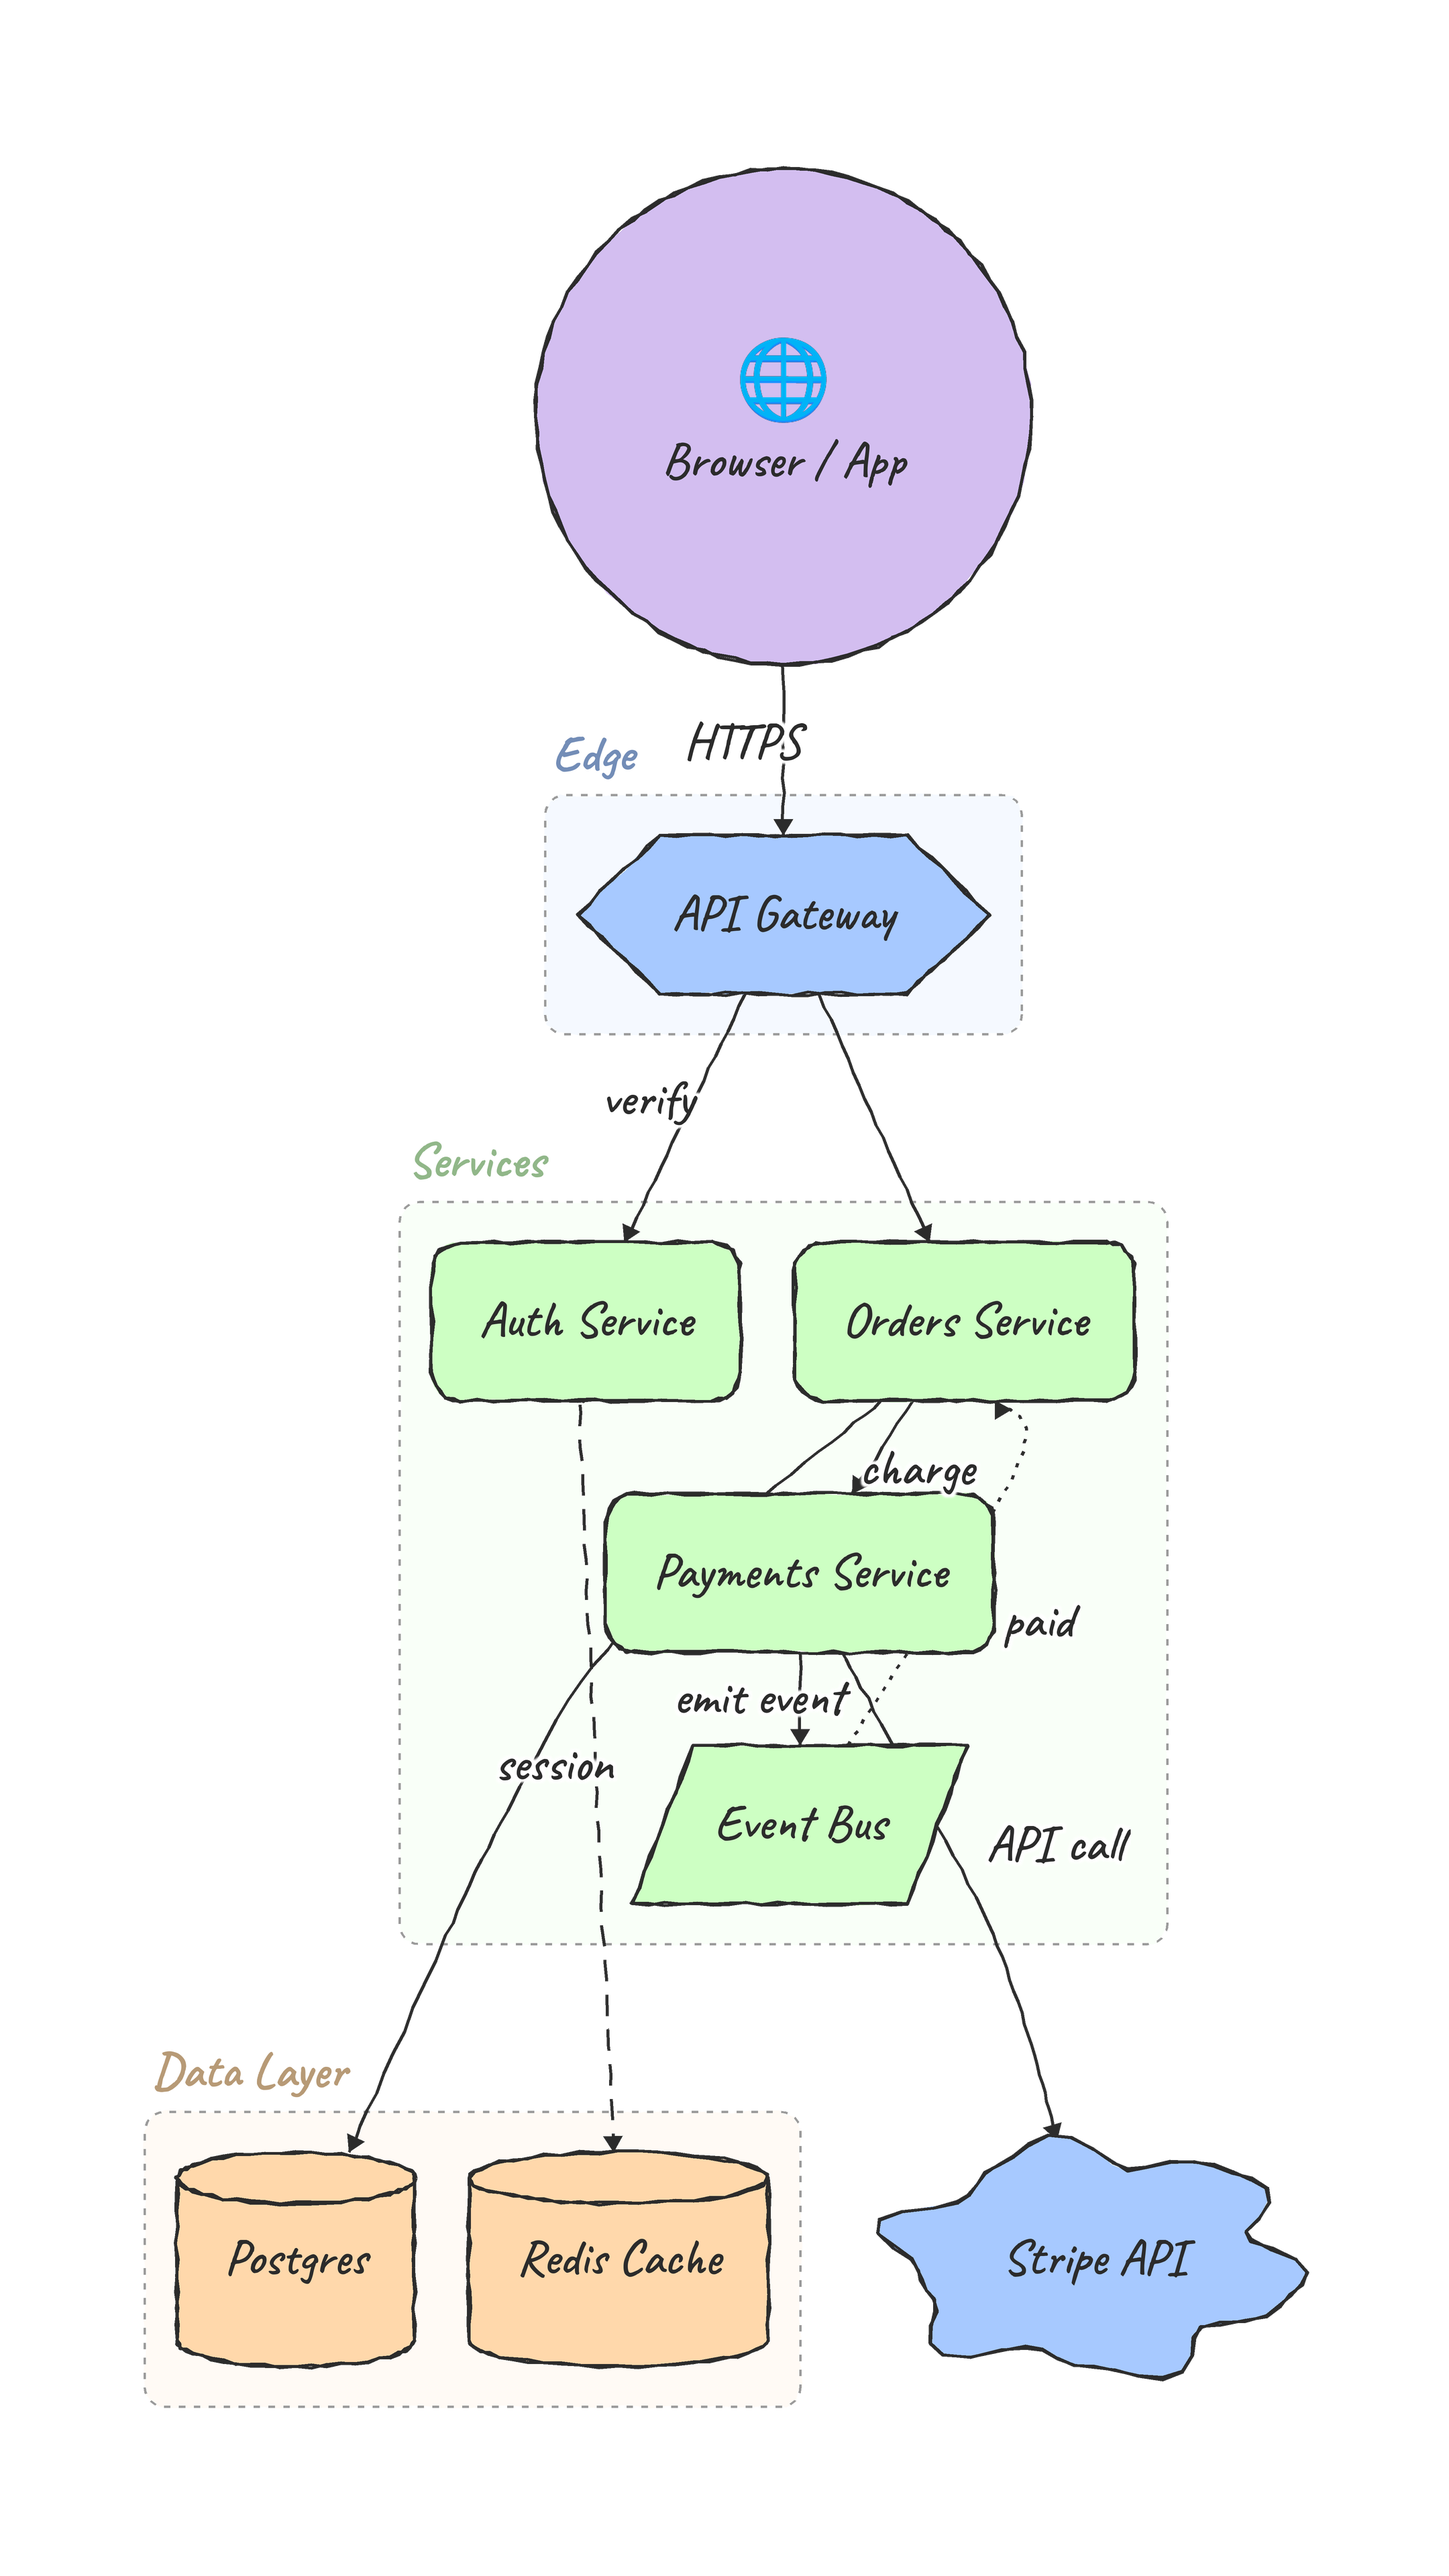
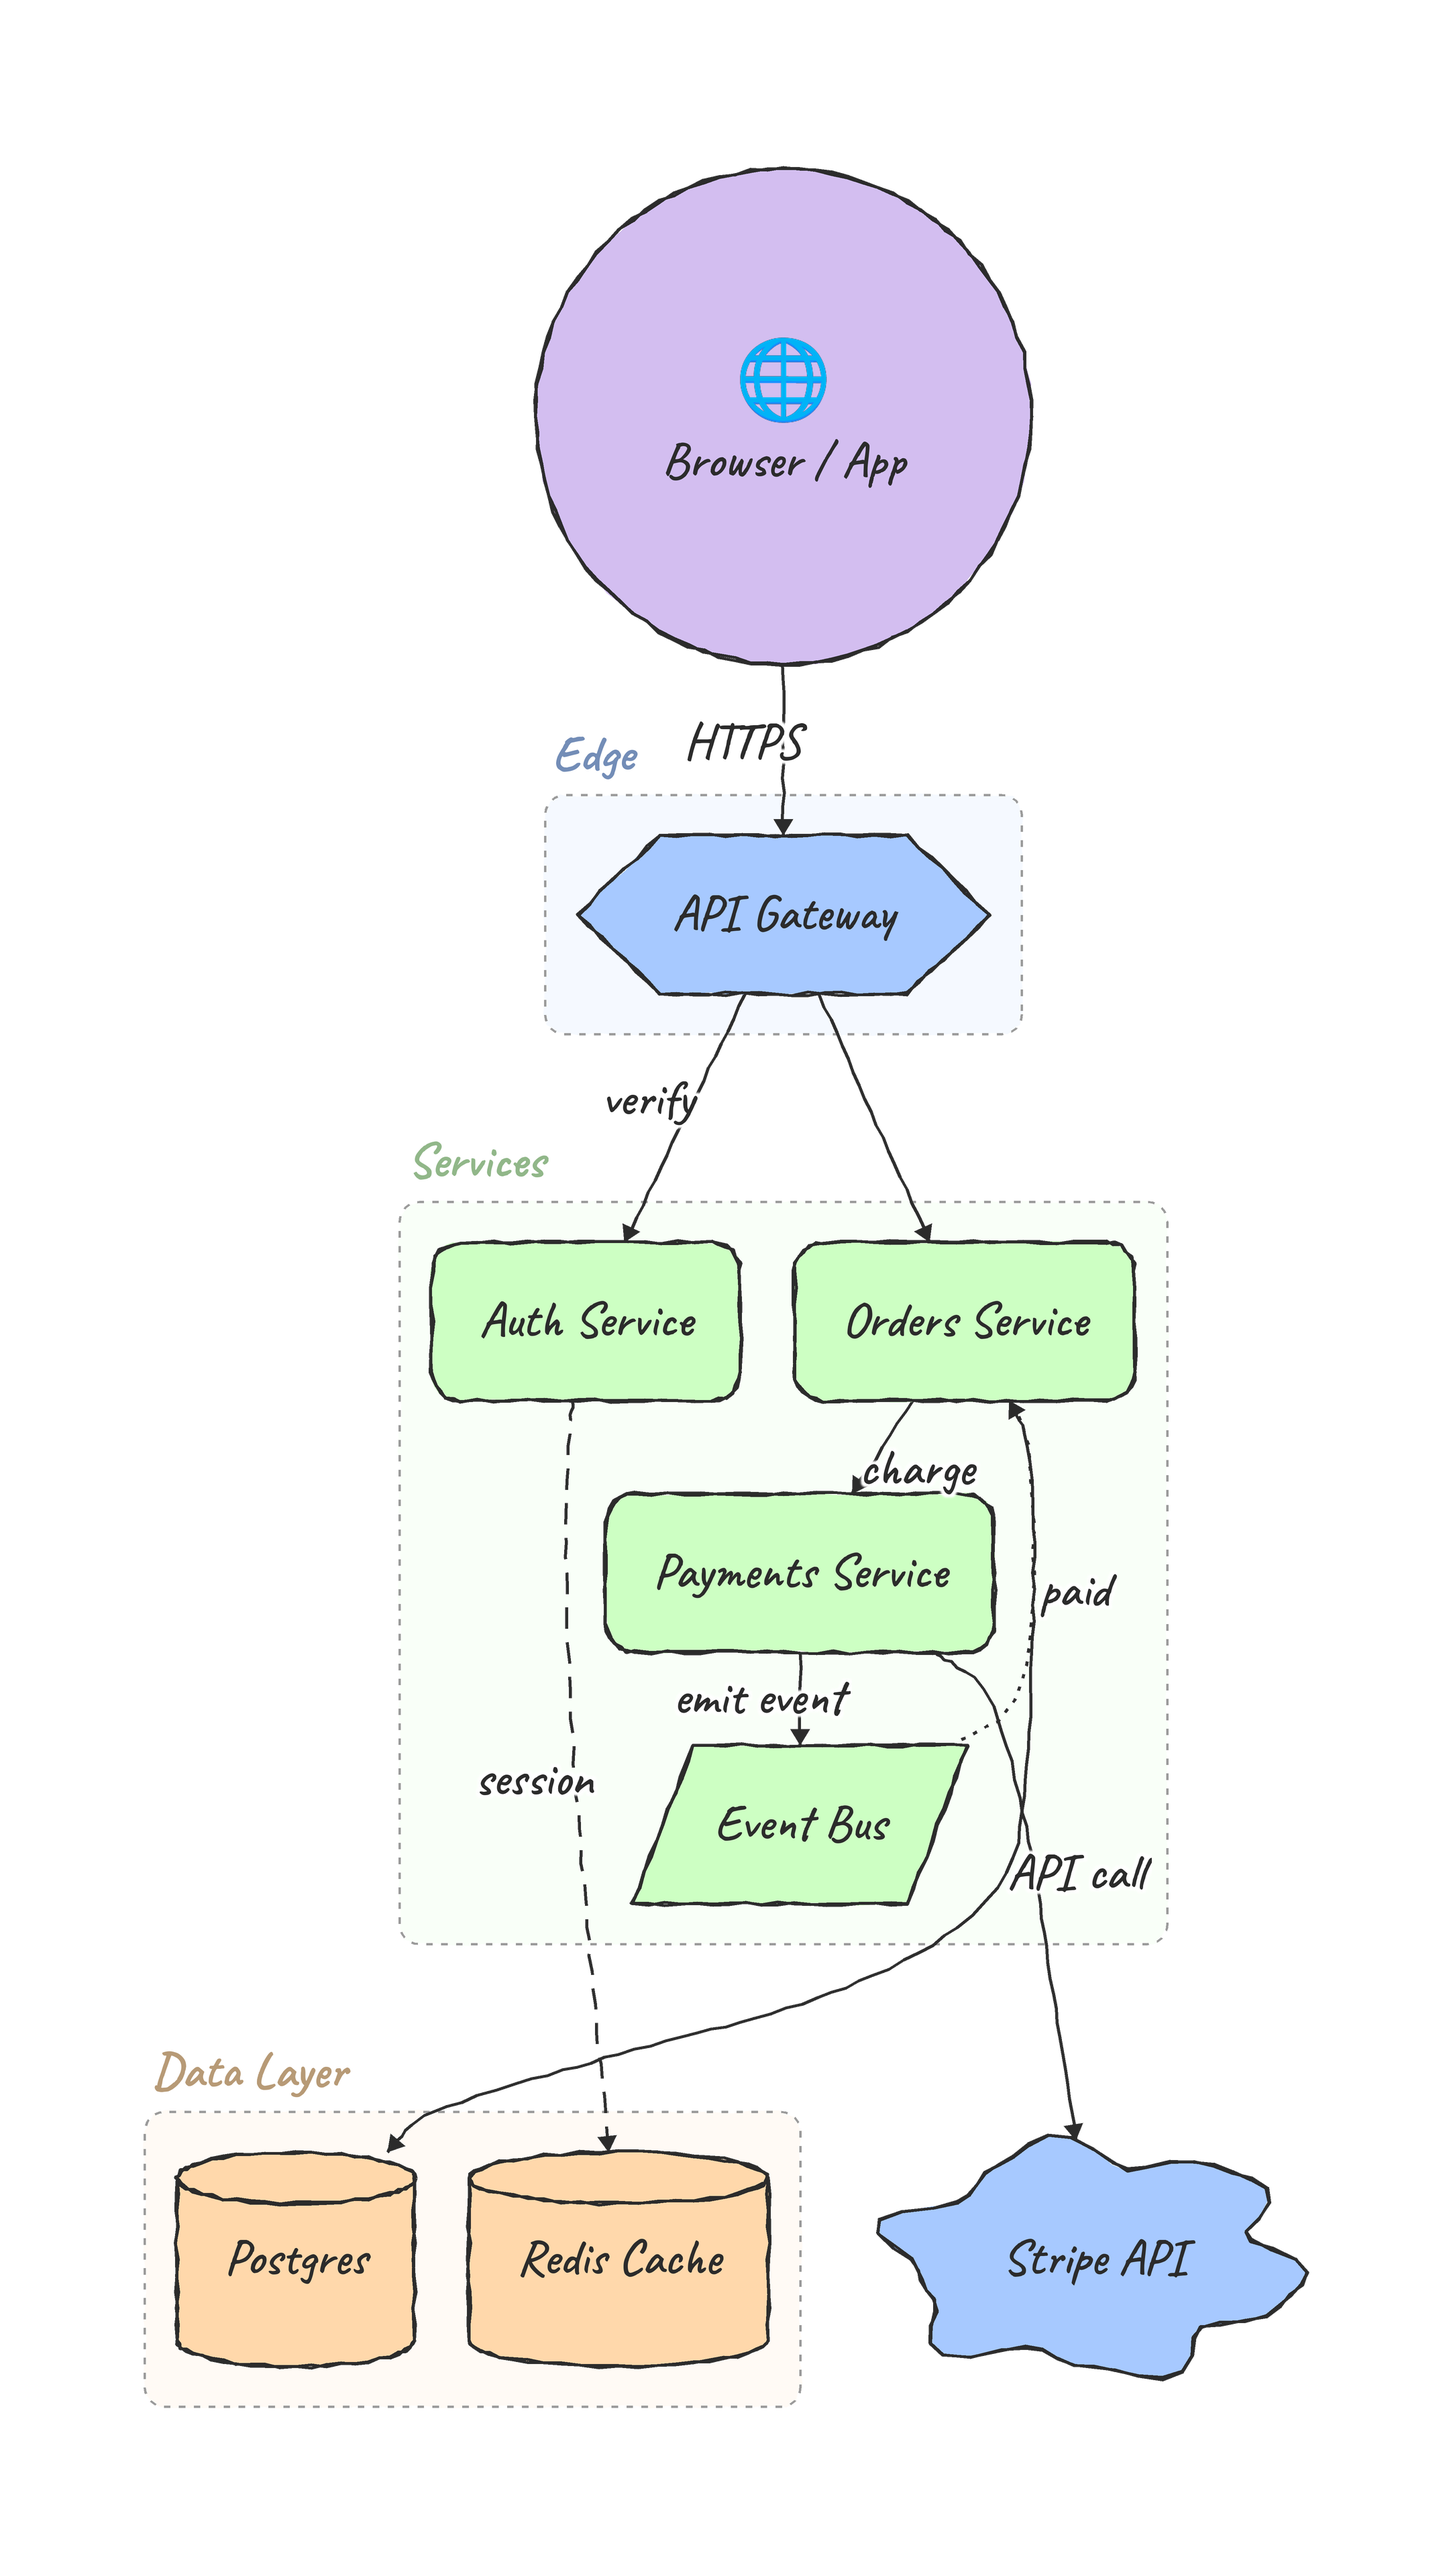
Edges never pass behind nodes: visibility-graph routing + Chaikin
- Replace the greedy corner router with a visibility-graph + Dijkstra
  shortest path over inflated node-box corners, so even long diagonals
  across a dense cluster find a clear route. Verified 0 node-box hits.
- Smooth edges with Chaikin corner-cutting instead of a Catmull spline:
  Chaikin stays inside the routed poly-line and never overshoots back into
  a node (the Catmull curve did).

Claude-Session: https://claude.ai/code/session_01PkQ793Mrcet6GuHUUkKXnM

diff --git a/flowblow/layout.py b/flowblow/layout.py
@@ -595,30 +595,51 @@ def _seg_hits_box(a, b, box, samples: int = 40) -> bool:
 
 
 def _route_around(a, b, boxes):
-    """Route a-b as a poly-line that detours around obstacle boxes (so edges
-    never pass behind nodes). Each box is (x0,y0,x1,y1), already inflated."""
-    path = [a, b]
-    for _ in range(10):
-        hit = None
-        for i in range(len(path) - 1):
-            for box in boxes:
-                if _seg_hits_box(path[i], path[i + 1], box):
-                    hit = (i, box)
-                    break
-            if hit:
-                break
-        if not hit:
+    """Shortest poly-line from a to b that never passes through an obstacle box
+    (so edges never go behind a node). Visibility-graph + Dijkstra over the box
+    corners. Boxes are (x0,y0,x1,y1), already inflated."""
+    import heapq
+
+    if not any(_seg_hits_box(a, b, bx) for bx in boxes):
+        return [a, b]
+
+    pad = 1.0
+    nodes = [a, b]
+    for (x0, y0, x1, y1) in boxes:
+        nodes += [(x0 - pad, y0 - pad), (x1 + pad, y0 - pad),
+                  (x1 + pad, y1 + pad), (x0 - pad, y1 + pad)]
+
+    def visible(p, q):
+        return not any(_seg_hits_box(p, q, bx) for bx in boxes)
+
+    n = len(nodes)
+    dist = [math.inf] * n
+    prev = [-1] * n
+    dist[0] = 0.0
+    pq = [(0.0, 0)]
+    while pq:
+        d, u = heapq.heappop(pq)
+        if d > dist[u]:
+            continue
+        if u == 1:
             break
-        i, (x0, y0, x1, y1) = hit
-        p, q = path[i], path[i + 1]
-        # detour through whichever box corner adds the least length
-        corners = [(x0, y0), (x1, y0), (x1, y1), (x0, y1)]
-        best = min(corners, key=lambda c: math.hypot(c[0] - p[0], c[1] - p[1])
-                   + math.hypot(q[0] - c[0], q[1] - c[1]))
-        if best in path:           # avoid an infinite loop
-            break
-        path.insert(i + 1, best)
-    return path
+        for v in range(n):
+            if v == u:
+                continue
+            if visible(nodes[u], nodes[v]):
+                w = math.hypot(nodes[v][0] - nodes[u][0], nodes[v][1] - nodes[u][1])
+                if d + w < dist[v]:
+                    dist[v] = d + w
+                    prev[v] = u
+                    heapq.heappush(pq, (d + w, v))
+
+    if dist[1] is math.inf or prev[1] == -1:
+        return [a, b]
+    path, v = [], 1
+    while v != -1:
+        path.append(nodes[v])
+        v = prev[v]
+    return list(reversed(path))
 
 
 def _sublayout(diagram: Diagram, member_ids, sizes, node_by_id) -> Layout:
@@ -691,7 +712,7 @@ def layout_clustered(diagram: Diagram, measure=None) -> Layout:
 
     # 4. edges between real node centres, routed AROUND other nodes so a line
     #    never passes behind a node.
-    inflate = SIBLING_GAP * 0.45
+    inflate = SIBLING_GAP * 0.7
     boxes = {nid: (p.x - p.w / 2 - inflate, p.y - p.h / 2 - inflate,
                    p.x + p.w / 2 + inflate, p.y + p.h / 2 + inflate)
              for nid, p in placed.items()}

diff --git a/flowblow/raster.py b/flowblow/raster.py
@@ -148,6 +148,23 @@ def _mid_and_tangent(pts):
     return pts[len(pts) // 2], (pts[-1][0] - pts[0][0], pts[-1][1] - pts[0][1])
 
 
+def _chaikin(pts, iters: int = 3) -> List[Point]:
+    """Corner-cutting smoothing that stays INSIDE the control polyline (unlike a
+    Catmull spline it never overshoots), so a routed edge can't bulge back into
+    a node. Endpoints are preserved."""
+    pts = list(pts)
+    if len(pts) < 3:
+        return pts
+    for _ in range(iters):
+        out = [pts[0]]
+        for a, b in zip(pts, pts[1:]):
+            out.append((0.75 * a[0] + 0.25 * b[0], 0.75 * a[1] + 0.25 * b[1]))
+            out.append((0.25 * a[0] + 0.75 * b[0], 0.25 * a[1] + 0.75 * b[1]))
+        out.append(pts[-1])
+        pts = out
+    return pts
+
+
 def _dash(points: Sequence[Point], on: float, off: float) -> List[List[Point]]:
     """Split a polyline into dash sub-polylines by arc length."""
     if on <= 0:
@@ -447,7 +464,7 @@ def _draw_scene(diagram: Diagram, layout, blocks, ux: float, uy: float,
             control[0] = _border_point(src, control[1], inset_s)
             control[-1] = _border_point(tgt, control[-2], inset_t)
 
-        sampled = [dr.T(*p) for p in _catmull(control, samples=22)]
+        sampled = [dr.T(*p) for p in _chaikin(control, iters=3)]
         color = hex_rgba(spec.color) if spec.color else dr.ink
         seed = _hash(e.source + e.target) & 255
         # jitter the whole curve ONCE, then dash that single wavy path so the
